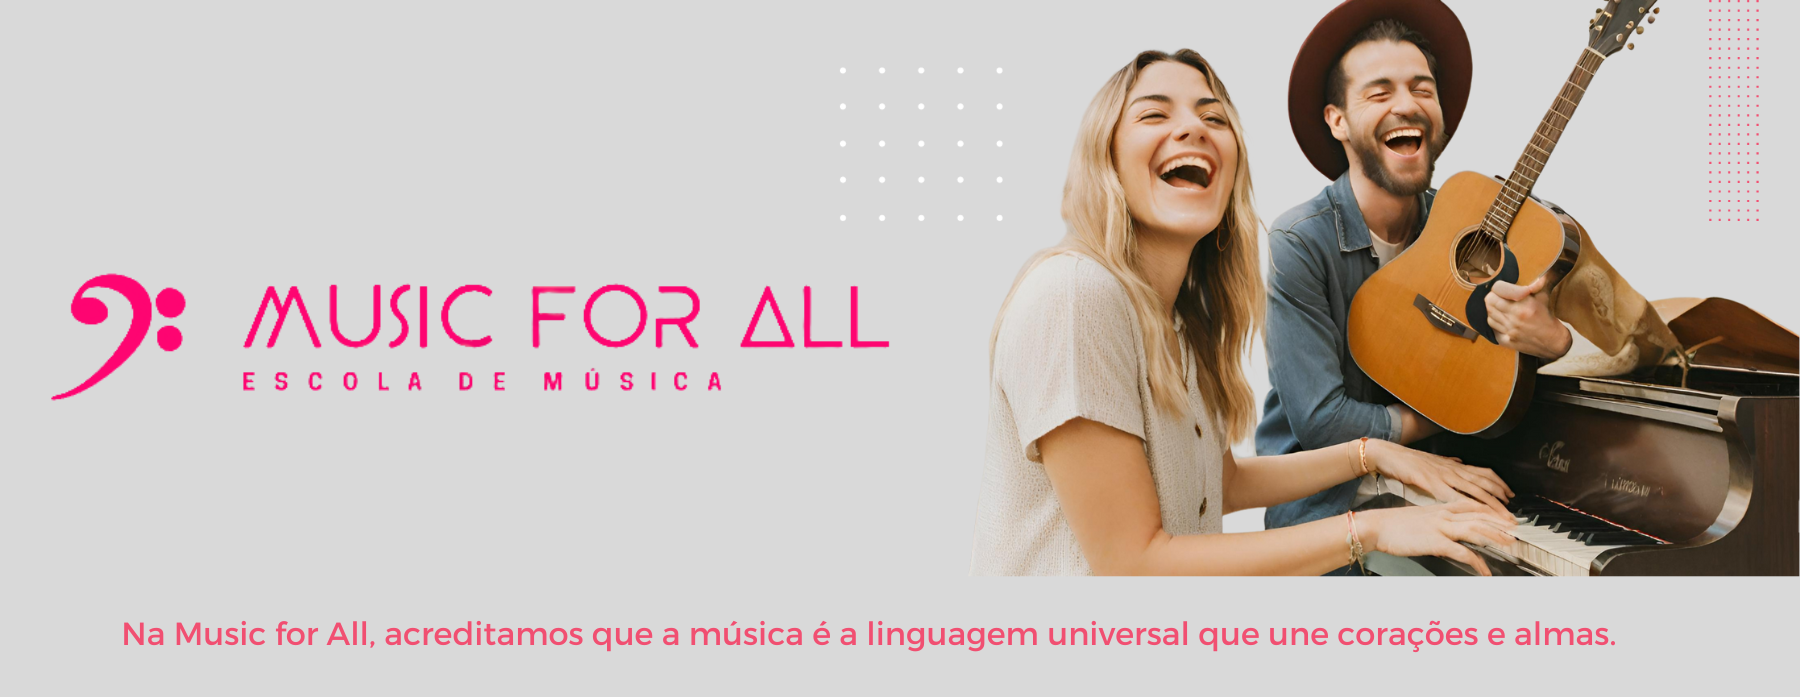
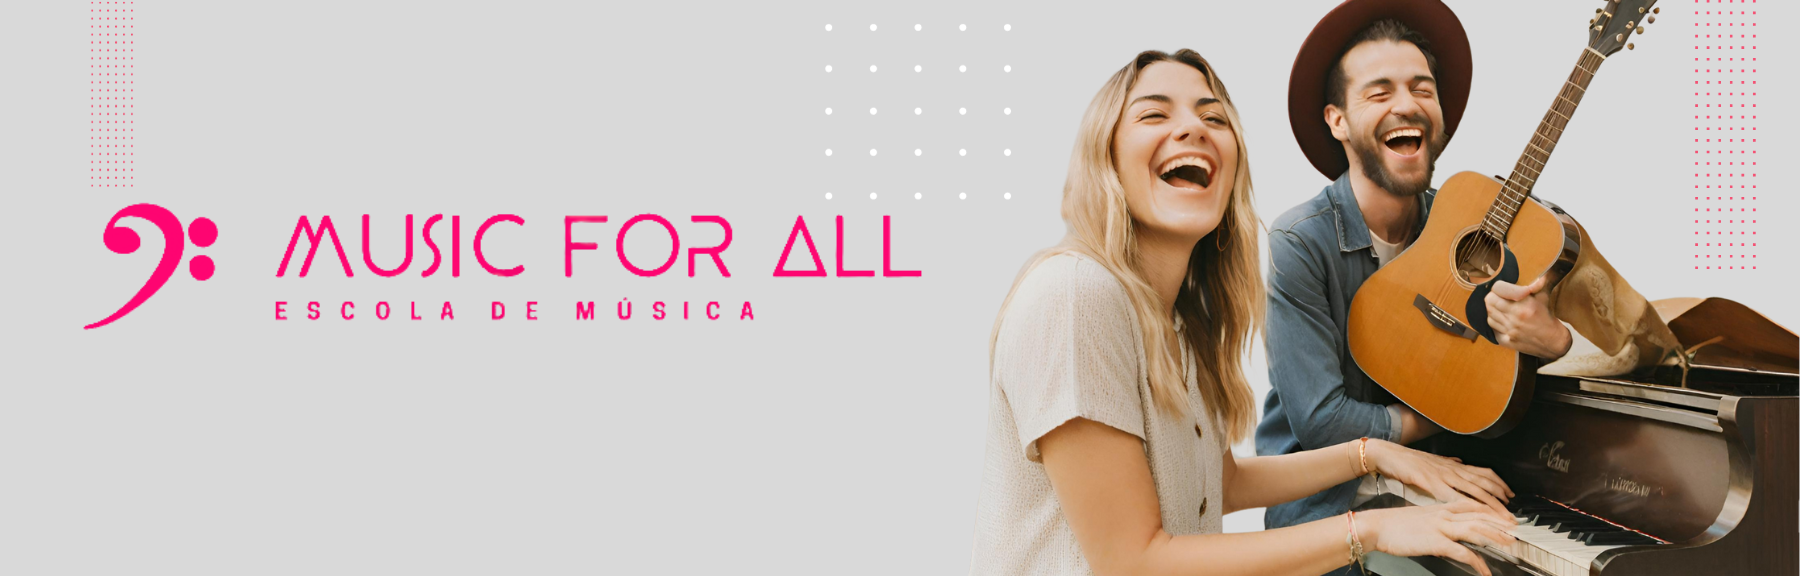
styles mobile

diff --git a/src/app/page.module.css b/src/app/page.module.css
@@ -344,8 +344,10 @@ margin-top: -5rem;
    
  display: none;
   }
-  .imgMobile{display: block;
-  margin-top: -18.2rem;}
+  .imgMobile{   position: absolute;
+    top: 40px;
+    left: 0;
+    display: block;}
 
 
   .titleCursos {
